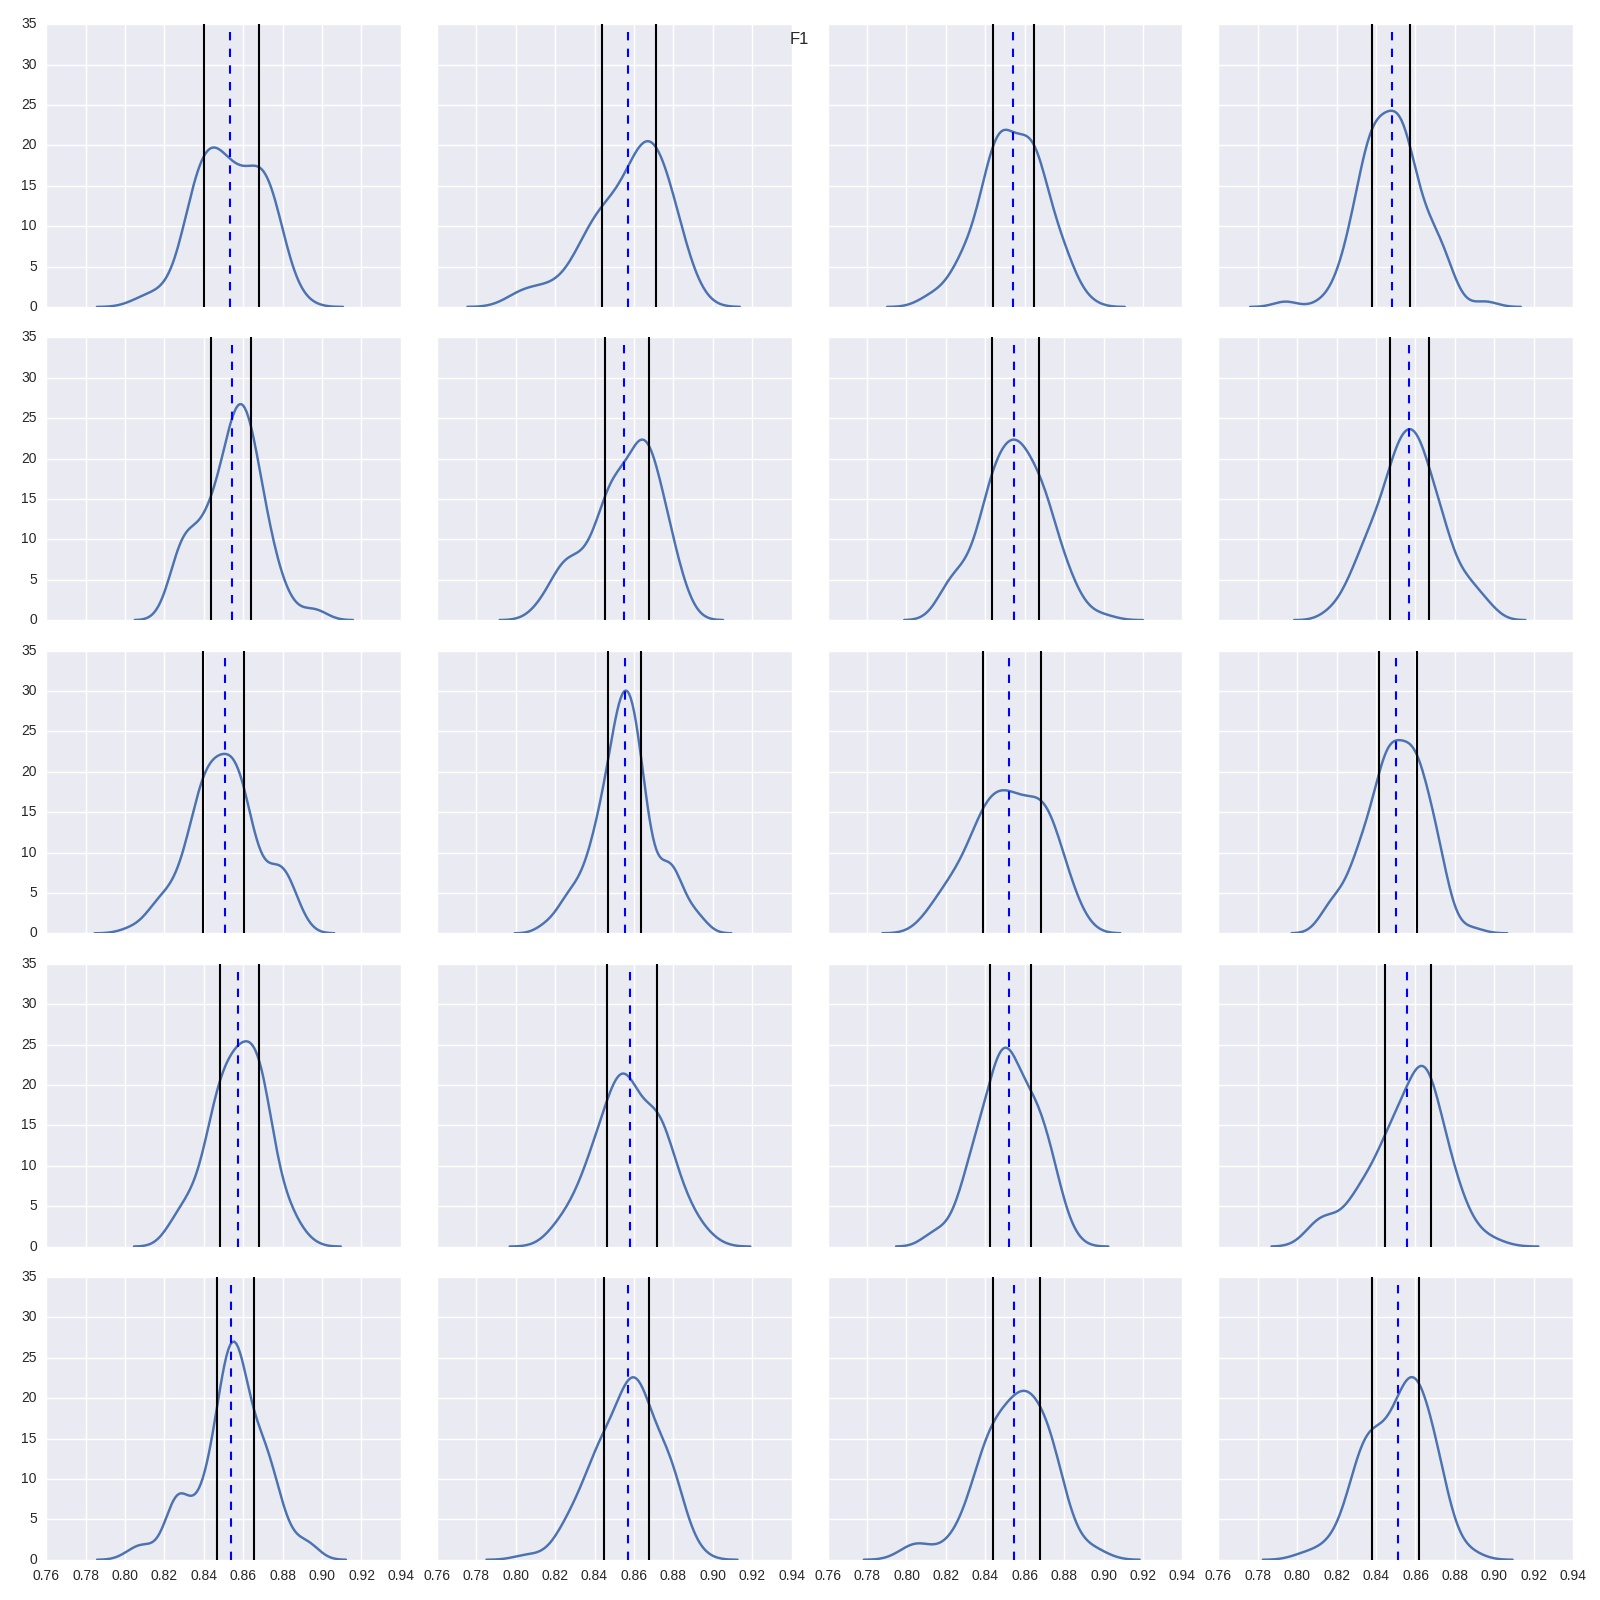
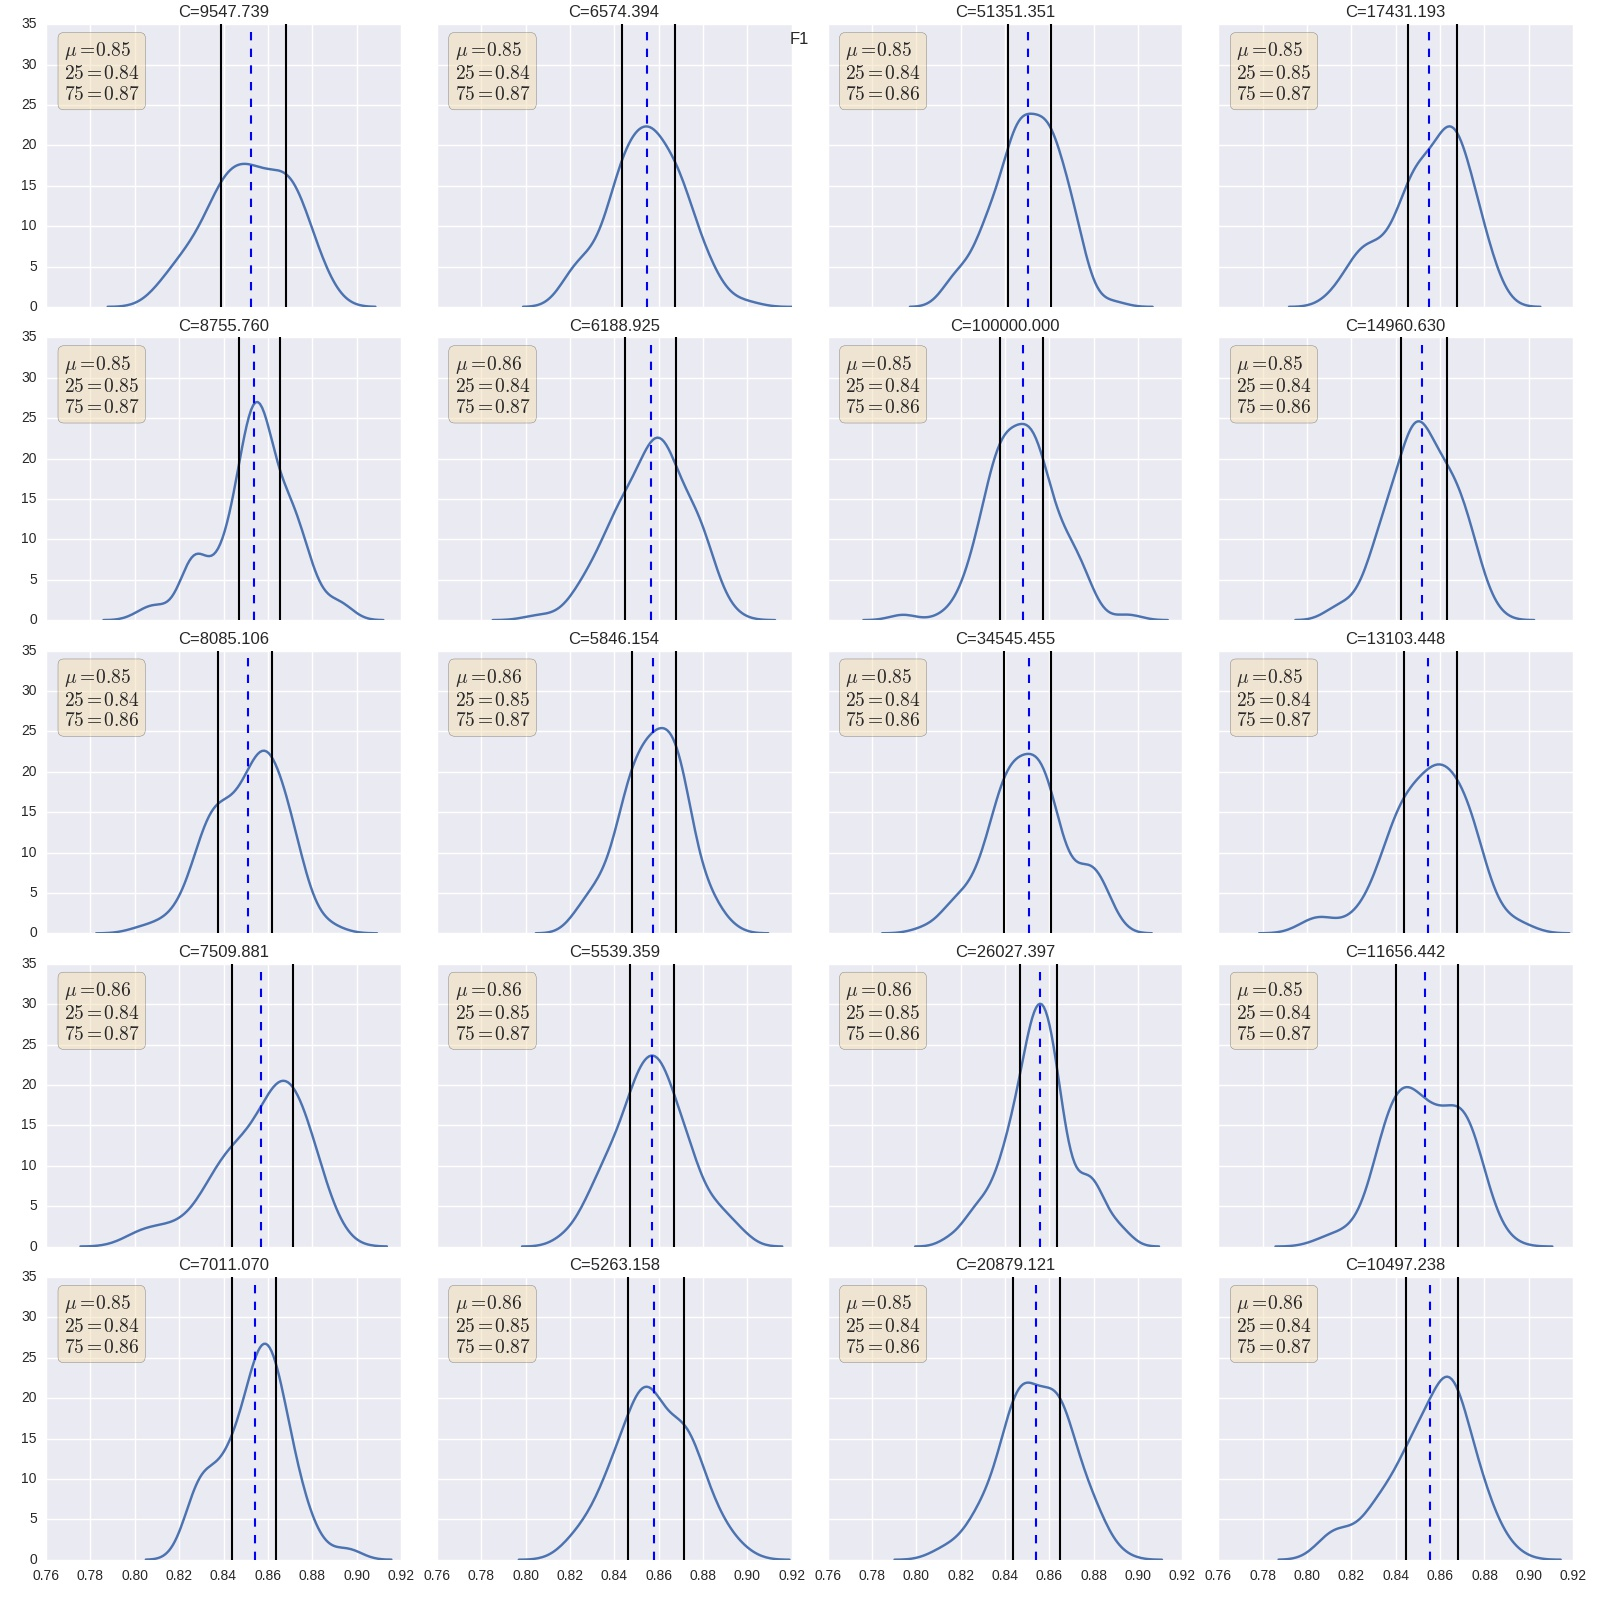
Pretty Plots

diff --git a/results.py b/results.py
@@ -4,6 +4,7 @@ import matplotlib.pyplot as P
 import os 
 from os import path 
 import seaborn as sns 	
+import matplotlib.text as txt
 def check(x):
 	if x == 0:
 		return "F1"
@@ -17,6 +18,7 @@ def check(x):
 		return str(0)
 dirc = '/home/thejas/Documents/Python/regularization-params/op'
 files = os.listdir(dirc)
+files.sort()
 fil = list(enumerate(files))
 f, axf = P.subplots(5,4,sharex=True)
 P.suptitle("F1")	
@@ -24,7 +26,7 @@ f1_t        	=   []
 acc_t      		=   []
 prec_t     		=   []
 rec_t      		=   []
-
+Alpha_vals		=	[]
 f1_mean_t   	=   []
 acc_mean_t  	=   []
 prec_mean_t 	=   []
@@ -39,6 +41,7 @@ for nu,fi in fil:
 	alpha = fi.split('_')[1].split('.csv')[0]
 	#n = "output/alpha_" + str(alpha) + ".csv"
 	fip = dirc  + "/" + fi
+	Alpha_vals.append(float(alpha))
 	with open(fip,'r') as f:
 		spamreader = csv.reader(f, delimiter=' ', quotechar='|')
 		f1 = []
@@ -134,10 +137,17 @@ for x in range(0,4):
 	now_precent = All_precentiles[x]
 	for y in range(0,20):
 		cu = now[y]
-		sns.kdeplot(cu,ax=axf[y%5][y/5])
+		sns.kdeplot(cu,ax=axf[y%5][y/5],clip=(.75,.9))
 		axf[y%5][y/5].axvline(now_mean[y], ls="--", linewidth=1.5)
 		axf[y%5][y/5].axvline(now_precent[y][0], ls="-", linewidth=1.5,color="black")
 		axf[y%5][y/5].axvline(now_precent[y][1], ls="-", linewidth=1.5,color="black")
+		axf[y%5][y/5].set_title("C="+"%.3f" % (float(Alpha_vals[y])**-1))
+		text = '$\mu=%.2f$\n$\mathrm{25}=%.2f$\n$\mathrm{75}=%.2f$'%(float(now_mean[y]), float(now_precent[y][0]),float(now_precent[y][1]))
+		props = dict(boxstyle='round', facecolor='wheat', alpha=0.5)
+		axf[y%5][y/5].text(0.05, 0.95, text, transform=axf[y%5][y/5].transAxes, fontsize=14,
+        verticalalignment='top', bbox=props)
+        print 'Done!'
+		#axf[y%5][y/5].set_title("C="+str(Alpha_vals[y]))
 	out = "results_focus_3/" + check(x) + ".jpg"
 	P.savefig(out)
 
